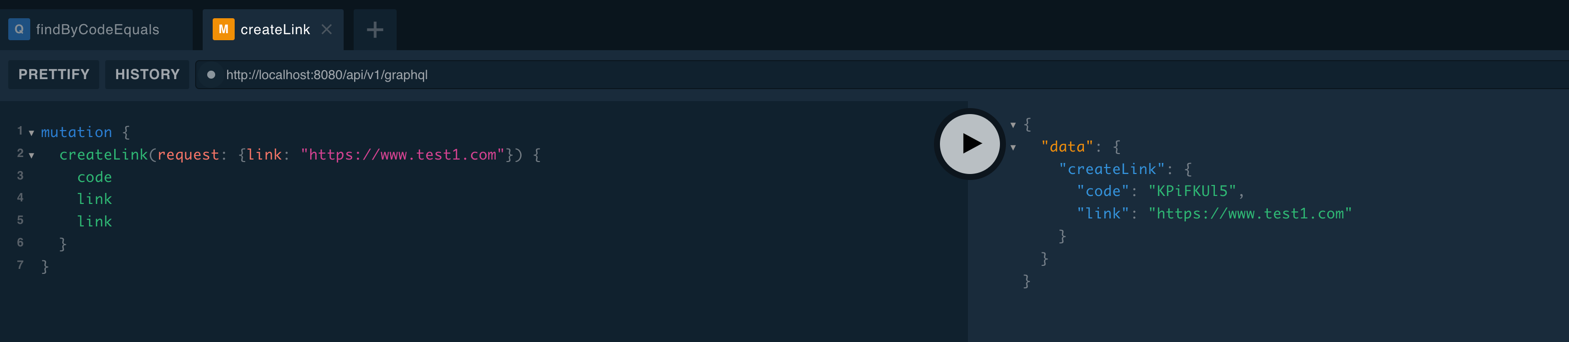
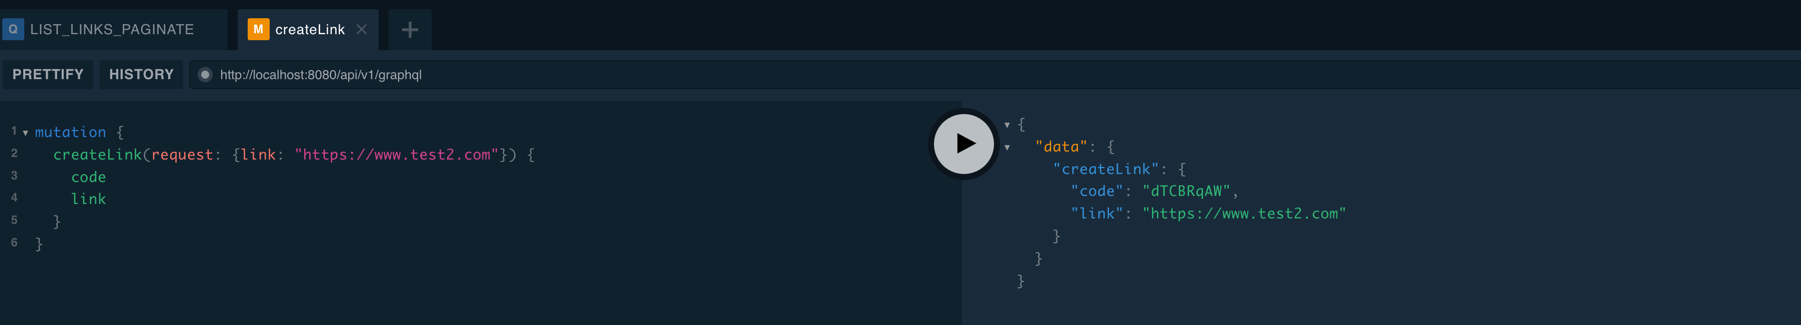
created pagination example

diff --git a/src/test/java/com/gurkan/shortlink/graphql/LinkQueryResolverTest.java b/src/test/java/com/gurkan/shortlink/graphql/LinkQueryResolverTest.java
@@ -3,7 +3,9 @@ package com.gurkan.shortlink.graphql;
 import com.graphql.spring.boot.test.GraphQLResponse;
 import com.graphql.spring.boot.test.GraphQLTestTemplate;
 import org.json.JSONException;
-import org.junit.jupiter.api.Test;
+import org.junit.jupiter.params.ParameterizedTest;
+import org.junit.jupiter.params.provider.Arguments;
+import org.junit.jupiter.params.provider.MethodSource;
 import org.skyscreamer.jsonassert.JSONAssert;
 import org.springframework.beans.factory.annotation.Autowired;
 import org.springframework.boot.test.context.SpringBootTest;
@@ -13,6 +15,7 @@ import java.io.IOException;
 import java.net.URISyntaxException;
 import java.nio.file.Files;
 import java.nio.file.Paths;
+import java.util.stream.Stream;
 
 import static org.assertj.core.api.Assertions.*;
 
@@ -22,18 +25,23 @@ public class LinkQueryResolverTest {
     @Autowired
     private GraphQLTestTemplate graphQLTestTemplate;
 
-    private String requestPath = "shortlink/graphql/request/link.graphql";
-
-    private String responsePath = "shortlink/graphql/response/link.json";
-
-    @Test
-    public void findByCodeEquals() throws IOException, URISyntaxException, JSONException {
+    @ParameterizedTest
+    @MethodSource("provideInputs")
+    public void findByCodeEquals(String requestPath, String responsePath) throws IOException, URISyntaxException, JSONException {
         GraphQLResponse graphQLResponse = graphQLTestTemplate.postForResource(requestPath);
 
         var expected = Files.readString(Paths.get(getClass().getClassLoader()
                 .getResource(responsePath).toURI()));
         assertThat(graphQLResponse.getStatusCode()).isEqualTo(HttpStatus.OK);
         JSONAssert.assertEquals(expected, graphQLResponse.getRawResponse().getBody(), true);
+    }
+
+    private static Stream<Arguments> provideInputs() {
+        String folder = "shortlink/graphql/";
+        return Stream.of(
+                Arguments.of(folder + "request/link.graphql", folder + "response/link.json"),
+                Arguments.of(folder + "request/paginate.graphql", folder + "response/paginate.json")
+        );
     }
 
 }

diff --git a/src/main/java/com/gurkan/shortlink/graphql/LinkQueryResolver.java b/src/main/java/com/gurkan/shortlink/graphql/LinkQueryResolver.java
@@ -1,7 +1,10 @@
 package com.gurkan.shortlink.graphql;
 
+import com.gurkan.shortlink.entity.Link;
 import com.gurkan.shortlink.service.LinkService;
 import graphql.kickstart.tools.GraphQLQueryResolver;
+import graphql.relay.*;
+import graphql.schema.DataFetchingEnvironment;
 import lombok.AllArgsConstructor;
 import org.springframework.stereotype.Component;
 
@@ -13,6 +16,10 @@ public class LinkQueryResolver implements GraphQLQueryResolver {
 
     public String findByCodeEquals(String code) {
         return linkService.findLinkByCode(code);
+    }
+
+    public Connection<Link> links(int first, String after, DataFetchingEnvironment env) {
+        return new SimpleListConnection<>(linkService.findAll()).get(env);
     }
 
 }

diff --git a/src/main/java/com/gurkan/shortlink/service/impl/LinkServiceImpl.java b/src/main/java/com/gurkan/shortlink/service/impl/LinkServiceImpl.java
@@ -11,6 +11,8 @@ import lombok.AllArgsConstructor;
 import org.dozer.DozerBeanMapper;
 import org.springframework.stereotype.Service;
 
+import java.util.List;
+
 @Service
 @AllArgsConstructor
 public class LinkServiceImpl implements LinkService {
@@ -30,5 +32,9 @@ public class LinkServiceImpl implements LinkService {
     public String findLinkByCode(String code) {
         Link link = linkRepository.findByCodeEquals(code).orElseThrow();
         return link.getLink();
+    }
+
+    public List<Link> findAll() {
+        return linkRepository.findAll();
     }
 }

diff --git a/src/main/java/com/gurkan/shortlink/service/LinkService.java b/src/main/java/com/gurkan/shortlink/service/LinkService.java
@@ -2,9 +2,13 @@ package com.gurkan.shortlink.service;
 
 import com.gurkan.shortlink.dto.CreateLinkRequestDto;
 import com.gurkan.shortlink.dto.CreateLinkResponseDto;
+import com.gurkan.shortlink.entity.Link;
+
+import java.util.List;
 
 public interface LinkService {
 
     CreateLinkResponseDto save(CreateLinkRequestDto createLinkRequestDto);
     String findLinkByCode(String code);
+    List<Link> findAll();
 }

diff --git a/README.md b/README.md
@@ -32,7 +32,6 @@ mutation {
   createLink(request: {link: "https://www.test1.com"}) {
     code
     link
-    link
   }
 }
 ```
@@ -46,3 +45,23 @@ query {
 ```
 
 ![](screenshots/findLinkByCode.png)
+
+```json
+query LIST_LINKS_PAGINATE {
+    links (first: 2, after: "c2ltcGxlLWN1cnNvcjI=") {
+        edges {
+            cursor
+            node {
+              code
+            }
+        }
+        pageInfo {
+            startCursor
+            endCursor
+            hasPreviousPage
+            hasNextPage
+        }
+    }
+}
+```
+![](screenshots/paginate.png)
